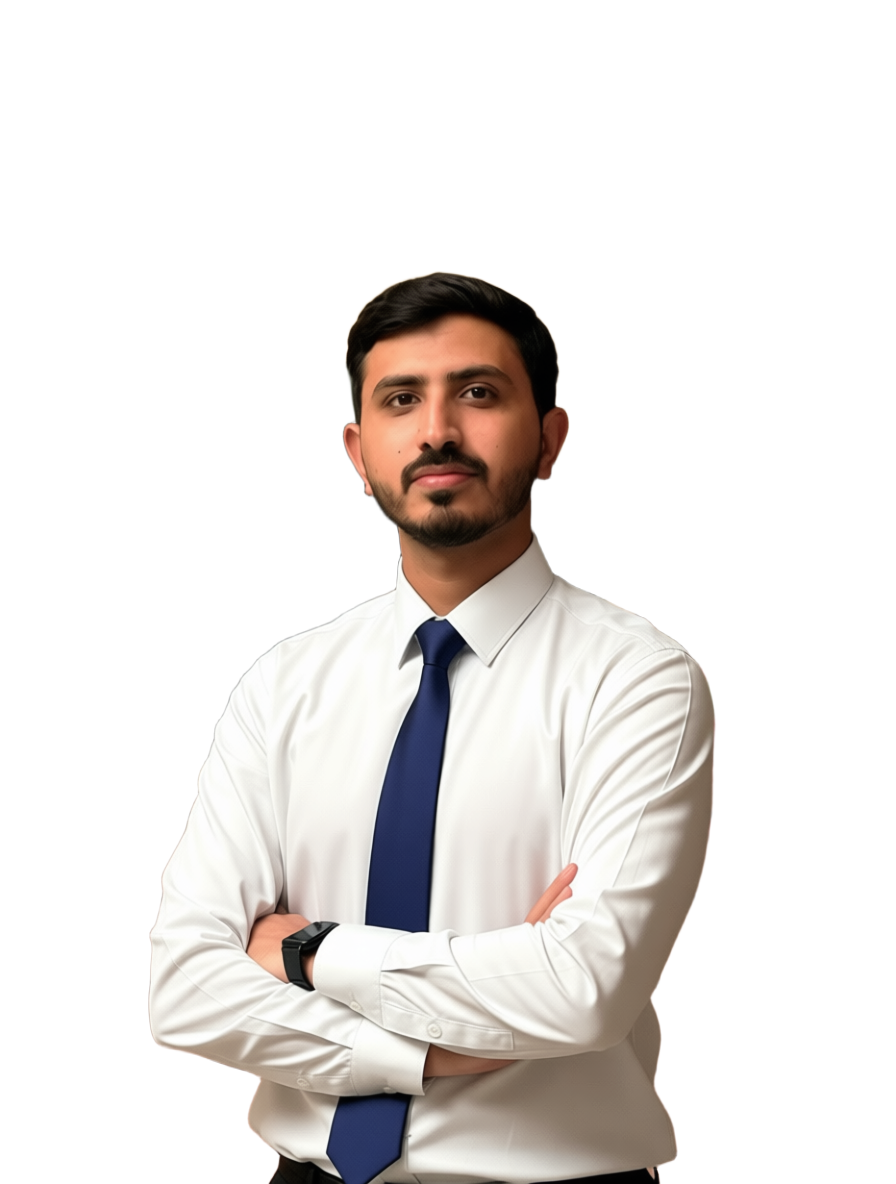
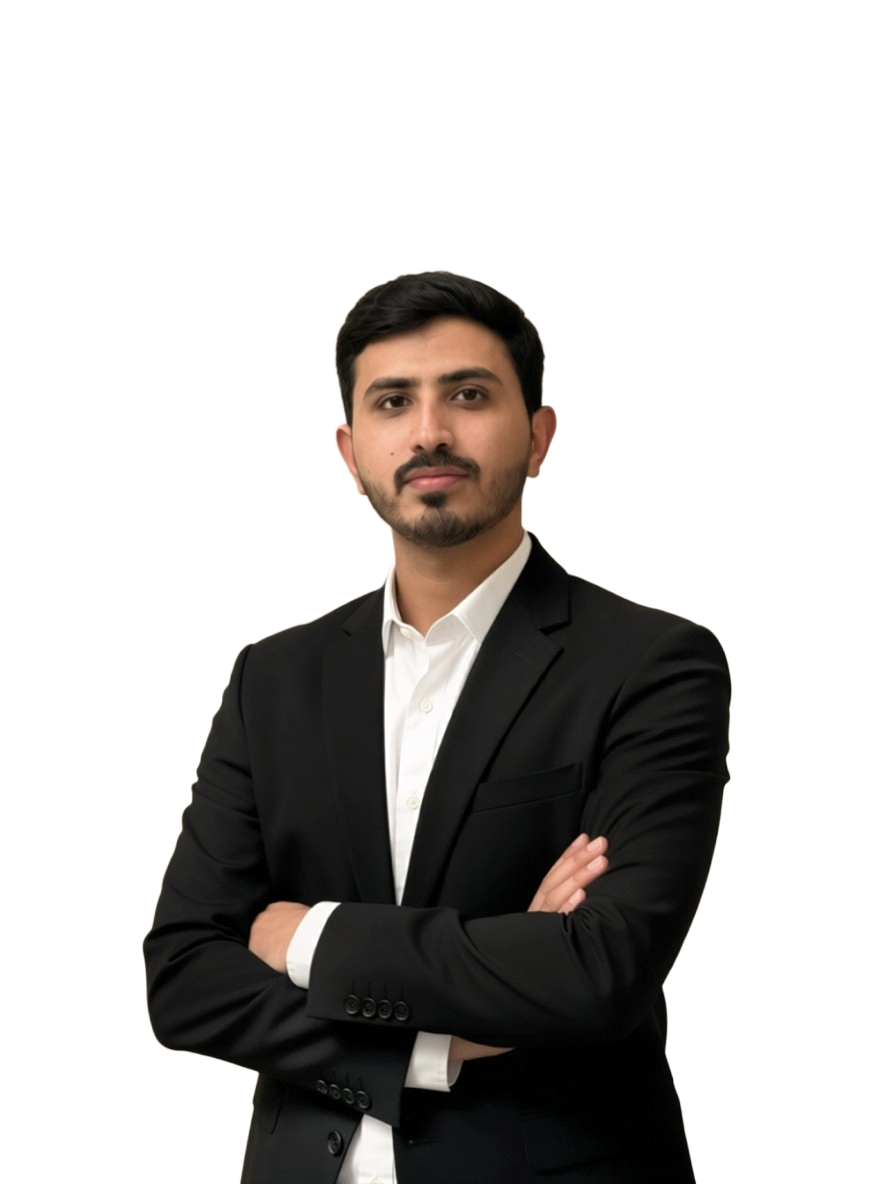
change theme and other things

Changed region(s): [[0.1562, 0.2188, 0.8438, 1.0]]

diff --git a/src/components/portfolio/Services.tsx b/src/components/portfolio/Services.tsx
@@ -7,7 +7,7 @@ type Service = {
   title: string;
   description: string;
   tags: string[];
-  tone: "gold" | "muted";
+  tone: "cyan" | "purple" | "muted";
 };
 
 const services: Service[] = [
@@ -16,7 +16,7 @@ const services: Service[] = [
     title: "Mobile App Development",
     description: "High-performance native and cross-platform apps built with Java, Kotlin, Jetpack Compose, and Flutter. Delivering seamless user experiences with clean architecture and solid backend integrations.",
     tags: ["Android", "Flutter", "Jetpack Compose", "Firebase"],
-    tone: "gold",
+    tone: "cyan",
   },
   {
     icon: Globe,
@@ -30,7 +30,7 @@ const services: Service[] = [
     title: "AI Automation",
     description: "Automate repetitive business tasks with intelligent n8n, Zapier, and Make workflows connected to your daily tools. Integrate AI to parse data and make informed decisions — saving hours every single week.",
     tags: ["n8n", "Zapier", "Make.com", "OpenAI / Claude"],
-    tone: "gold",
+    tone: "purple",
   },
 ];
 
@@ -43,15 +43,17 @@ export function Services() {
 
         <div className="mt-12 lg:mt-16 flex flex-nowrap items-stretch overflow-x-auto hide-scrollbar md:grid md:grid-cols-2 md:overflow-visible lg:grid-cols-3 gap-5 pb-8 md:pb-0 snap-x snap-mandatory px-4 md:px-0 -mx-4 md:mx-0 py-4 -my-4 md:py-0 md:my-0">
           {services.map((s, i) => (
-            <article key={s.title} className="flex flex-col self-stretch w-[75vw] sm:w-[60vw] md:w-full min-w-0 shrink-0 snap-center md:snap-align-none card-hover group rounded-2xl border border-border bg-elevated p-8 relative overflow-hidden transition-all hover:shadow-[0_4px_30px_rgba(200,168,75,0.06)] outline-none focus:outline-none items-center text-center md:items-start md:text-left">
+            <article key={s.title} className="flex flex-col self-stretch w-[75vw] sm:w-[60vw] md:w-full min-w-0 shrink-0 snap-center md:snap-align-none card-hover group rounded-2xl border border-border bg-elevated p-8 relative overflow-hidden transition-all hover:shadow-[0_4px_30px_rgba(232,87,42,0.06)] outline-none focus:outline-none items-center text-center md:items-start md:text-left">
               {/* Gold corner accent on hover */}
                 <div className="absolute top-0 right-0 h-20 w-20 opacity-0 group-hover:opacity-100 transition-opacity duration-300 pointer-events-none">
                   <div className="absolute top-4 right-4 h-8 w-8 border-t-2 border-r-2 border-primary rounded-tr-xl" />
                 </div>
 
                 <div className="flex flex-col md:flex-row items-center gap-4 mt-6">
-                  <div className={`inline-flex shrink-0 h-14 w-14 items-center justify-center rounded-xl transition-all duration-300 group-hover:scale-110 group-hover:shadow-[0_0_20px_rgba(200,168,75,0.2)] ${
-                    s.tone === "gold" ? "bg-primary/10 text-primary border border-primary/20" : "bg-surface text-muted-foreground border border-border group-hover:text-primary group-hover:border-primary/20"
+                  <div className={`inline-flex shrink-0 h-14 w-14 items-center justify-center rounded-xl transition-all duration-300 group-hover:scale-110 ${
+                    s.tone === "cyan" ? "bg-primary/10 text-primary border border-primary/20 group-hover:shadow-[0_0_20px_rgba(232,87,42,0.25)]"
+                    : s.tone === "purple" ? "bg-primary/10 text-primary border border-primary/20 group-hover:shadow-[0_0_20px_rgba(232,87,42,0.25)]"
+                    : "bg-surface text-muted-foreground border border-border group-hover:text-primary group-hover:border-primary/20"
                   }`}>
                     <s.icon className="h-6 w-6" strokeWidth={1.5} />
                   </div>
@@ -63,8 +65,10 @@ export function Services() {
                 <div className="pt-6 md:pt-8 flex flex-wrap gap-2 mt-auto justify-center md:justify-start">
                   {s.tags.map((t) => (
                     <span key={t} className={`rounded-md border px-3 py-1.5 text-[12px] font-medium tracking-wide transition-colors ${
-                      s.tone === "gold"
+                      s.tone === "cyan"
                         ? "border-primary/30 text-primary bg-primary/5 group-hover:bg-primary/10"
+                        : s.tone === "purple"
+                        ? "border-secondary/30 text-secondary bg-secondary/5 group-hover:bg-secondary/10"
                         : "border-border text-muted-foreground bg-surface group-hover:border-primary/30 group-hover:text-primary"
                     }`}>
                       {t}

diff --git a/src/styles.css b/src/styles.css
@@ -1,14 +1,12 @@
 @import url("https://fonts.googleapis.com/css2?family=Space+Grotesk:wght@400;500;600;700;800&family=Inter:wght@400;500;600;700&display=swap");
 
-@import "tailwindcss" source(none);
+@import "tailwindcss" source none);
 @source "../src";
 
 @custom-variant dark (&:is(.dark *));
 
 /*
- * Portfolio — Black & Gold flat dark theme. No gradients.
- * Page #0D0D0D  Surface #151515  Card #1E1E1E  Border #2A2A2A
- * Primary #C8A84B (gold)  Hover #B8943C
+ * Portfolio — #0E0E10 bg · #161618 surface · #202024 card · #E8572A accent · #FF7A4D highlight
  */
 
 @theme inline {
@@ -48,41 +46,41 @@
 :root {
   --radius: 0.75rem;
 
-  --background: #0D0D0D;
-  --surface: #151515;
-  --elevated: #1E1E1E;
-  --foreground: #F0F0F0;
-  --muted: #1E1E1E;
-  --muted-foreground: #8A8A8A;
-  --subtle-foreground: #5A5A5A;
+  --background: #0E0E10;
+  --surface: #161618;
+  --elevated: #202024;
+  --foreground: #F5F5F5;
+  --muted: #202024;
+  --muted-foreground: #A0A0A8;
+  --subtle-foreground: #5A5A62;
 
-  --card: #151515;
-  --card-foreground: #F0F0F0;
-  --popover: #151515;
-  --popover-foreground: #F0F0F0;
+  --card: #161618;
+  --card-foreground: #F5F5F5;
+  --popover: #161618;
+  --popover-foreground: #F5F5F5;
 
-  --primary: #C8A84B;
-  --primary-foreground: #0D0D0D;
-  --primary-hover: #B8943C;
-  --primary-dim: #29220a;
-  --secondary: #D4AF37;
-  --secondary-foreground: #0D0D0D;
-  --secondary-hover: #B8962E;
-  --accent: #C8A84B;
-  --accent-foreground: #0D0D0D;
+  --primary: #E8572A;
+  --primary-foreground: #FFFFFF;
+  --primary-hover: #FF7A4D;
+  --primary-dim: #2A1810;
+  --secondary: #FF7A4D;
+  --secondary-foreground: #FFFFFF;
+  --secondary-hover: #E8572A;
+  --accent: #E8572A;
+  --accent-foreground: #FFFFFF;
   --destructive: #EF4444;
   --destructive-foreground: #FFFFFF;
 
-  --border: #2A2A2A;
-  --input: #2A2A2A;
-  --ring: #C8A84B;
+  --border: #2C2C30;
+  --input: #2C2C30;
+  --ring: #E8572A;
 
   --transition-base: 0.2s ease;
 }
 
 .dark {
-  --background: #0D0D0D;
-  --foreground: #F0F0F0;
+  --background: #0E0E10;
+  --foreground: #F5F5F5;
 }
 
 @layer base {
@@ -103,10 +101,10 @@
     line-height: 1.15;
   }
   ::-webkit-scrollbar { width: 8px; height: 8px; }
-  ::-webkit-scrollbar-track { background: #0D0D0D; }
-  ::-webkit-scrollbar-thumb { background: #2A2A2A; border-radius: 8px; }
-  ::-webkit-scrollbar-thumb:hover { background: #C8A84B; }
-  ::selection { background: rgba(200,168,75,0.2); color: #F0F0F0; }
+  ::-webkit-scrollbar-track { background: #0E0E10; }
+  ::-webkit-scrollbar-thumb { background: #2C2C30; border-radius: 8px; }
+  ::-webkit-scrollbar-thumb:hover { background: #E8572A; }
+  ::selection { background: rgba(232,87,42,0.25); color: #F5F5F5; }
 }
 
 @layer utilities {
@@ -136,20 +134,20 @@
     border: 1px solid var(--border);
     transition: background-color var(--transition-base), border-color var(--transition-base);
   }
-  .btn-secondary:hover { background-color: #1A1A1A; border-color: #3A3A3A; }
+  .btn-secondary:hover { background-color: #202024; border-color: #3C3C42; }
   .card-hover {
     transition: border-color var(--transition-base), transform var(--transition-base);
   }
   .card-hover:hover { border-color: var(--primary); transform: translateY(-3px); }
   .dot-grid {
-    background-image: radial-gradient(rgba(200,168,75,0.1) 1px, transparent 1px);
+    background-image: radial-gradient(rgba(232,87,42,0.08) 1px, transparent 1px);
     background-size: 30px 30px;
   }
 }
 
 @keyframes pulse-dot {
-  0%,100% { transform: scale(1); opacity: 1; box-shadow: 0 0 0 0 rgba(200,168,75,0.7); }
-  50% { transform: scale(1.1); opacity: 0.9; box-shadow: 0 0 0 8px rgba(200,168,75,0); }
+  0%,100% { transform: scale(1); opacity: 1; box-shadow: 0 0 0 0 rgba(232,87,42,0.7); }
+  50% { transform: scale(1.1); opacity: 0.9; box-shadow: 0 0 0 8px rgba(232,87,42,0); }
 }
 .pulse-dot { animation: pulse-dot 1.8s ease-in-out infinite; }
 
@@ -157,7 +155,7 @@
 .caret {
   display: inline-block;
   width: 3px;
-  background: #C8A84B;
+  background: #E8572A;
   margin-left: 4px;
   animation: blink-caret 0.9s step-end infinite;
 }

diff --git a/src/components/portfolio/Hero.tsx b/src/components/portfolio/Hero.tsx
@@ -1,5 +1,5 @@
 import { useEffect, useRef, useState } from "react";
-import heroImg from "@/assets/mine.png"; 
+import heroImg from "@/assets/me.png"; 
 
 const ROLES = ["Mobile App Developer", "Website Developer", "AI Automation Engineer"];
 
@@ -58,8 +58,8 @@ function useCountUp(target: number, duration = 1400) {
 function Stat({ n, label, suffix = "+" }: { n: number; label: string; suffix?: string }) {
   const { val, ref } = useCountUp(n);
   return (
-    <div ref={ref} className="flex flex-col items-center justify-center rounded-[12px] border border-border/80 bg-[#121212] p-3 text-center shadow-lg transition-transform hover:-translate-y-1 duration-300">
-      <div className="font-display text-[22px] md:text-[24px] font-bold text-primary mb-0.5 drop-shadow-[0_0_12px_rgba(200,168,75,0.4)]">{val}{suffix}</div>
+    <div ref={ref} className="flex flex-col items-center justify-center rounded-[12px] border border-border/80 bg-[#202024] p-3 text-center shadow-lg transition-transform hover:-translate-y-1 duration-300">
+      <div className="font-display text-[22px] md:text-[24px] font-bold text-primary mb-0.5 drop-shadow-[0_0_12px_rgba(232,87,42,0.4)]">{val}{suffix}</div>
       <div className="text-[11px] md:text-[12px] font-medium text-muted-foreground">{label}</div>
     </div>
   );
@@ -84,7 +84,7 @@ export function Hero() {
             
             {/* Headline */}
             <div>
-              <p className="font-display text-[22px] lg:text-[30px] text-primary mb-3 font-semibold">Hi, I'm Fahad Hassan</p>
+              <p className="font-display text-[22px] lg:text-[30px] text-foreground mb-3 font-semibold">Hi, I'm Fahad Hassan</p>
               <h1 className="font-display font-bold text-[28px] md:text-[36px] lg:text-[46px] leading-[1.1] tracking-tight text-foreground">
                 <span className="text-primary">{role}</span>
                 <span className="caret align-middle ml-1 border-r-[3px] border-primary" style={{ height: "0.85em" }} />

diff --git a/src/components/portfolio/Footer.tsx b/src/components/portfolio/Footer.tsx
@@ -1,5 +1,5 @@
-import { GithubIcon, LinkedinIcon, TwitterIcon } from "./SocialIcons";
-import { ArrowUp } from "lucide-react";
+import { GithubIcon, LinkedinIcon } from "./SocialIcons";
+
 
 const quickLinks = ["Home", "About", "Services", "Projects", "Skills", "Contact"];
 const services = ["Mobile App Development", "Website Development", "AI Automation"];
@@ -21,8 +21,11 @@ export function Footer() {
               Mobile app, Websites & AI automation specialist building thoughtful software for ambitious teams.
             </p>
             <div className="mt-5 flex items-center justify-center sm:justify-start gap-2">
-              {[GithubIcon, LinkedinIcon, TwitterIcon].map((Icon, i) => (
-                <a key={i} href="#" className="h-9 w-9 inline-flex items-center justify-center rounded-full border border-border bg-elevated text-muted-foreground hover:text-primary hover:border-primary transition">
+              {[
+                { Icon: GithubIcon, href: "https://github.com/FahadHassn" },
+                { Icon: LinkedinIcon, href: "https://pk.linkedin.com/in/fahadhassan72" },
+              ].map(({ Icon, href }, i) => (
+                <a key={i} href={href} target="_blank" rel="noopener noreferrer" className="h-9 w-9 inline-flex items-center justify-center rounded-full border border-border bg-elevated text-muted-foreground hover:text-primary hover:border-primary transition">
                   <Icon width={16} height={16} />
                 </a>
               ))}

diff --git a/src/components/portfolio/Navbar.tsx b/src/components/portfolio/Navbar.tsx
@@ -6,6 +6,7 @@ const links = [
   { href: "#home", label: "Home" },
   { href: "#services", label: "Services" },
   { href: "#projects", label: "Projects" },
+  { href: "#testimonials", label: "Testimonials" },
   { href: "#contact", label: "Contact Us" },
 ];
 
@@ -80,8 +81,8 @@ export function Navbar() {
       </nav>
 
       {/* Mobile overlay */}
-      <div className={cn("fixed inset-0 top-0 h-[100dvh] w-full z-50 bg-[#0f0f0f] transition-opacity lg:hidden flex flex-col", open ? "opacity-100 pointer-events-auto" : "opacity-0 pointer-events-none")}>
-        <div className="flex items-center justify-between p-5 border-b border-border bg-[#0f0f0f]">
+      <div className={cn("fixed inset-0 top-0 h-[100dvh] w-full z-50 bg-[#0E0E10] transition-opacity lg:hidden flex flex-col", open ? "opacity-100 pointer-events-auto" : "opacity-0 pointer-events-none")}>
+        <div className="flex items-center justify-between p-5 border-b border-border bg-[#0E0E10]">
           <span className="font-display font-bold text-xl text-foreground">Fahad<span className="text-primary">.</span>dev</span>
           <button aria-label="Close menu" className="h-9 w-9 inline-flex items-center justify-center text-foreground rounded-md hover:bg-surface transition-colors" onClick={() => setOpen(false)}>
             <X className="h-5 w-5" />

diff --git a/src/components/portfolio/Projects.tsx b/src/components/portfolio/Projects.tsx
@@ -239,8 +239,8 @@ function useCountUp(target: number, duration = 1400) {
 function Stat({ n, label, suffix = "+" }: { n: number; label: string; suffix?: string }) {
   const { val, ref } = useCountUp(n);
   return (
-    <div ref={ref} className="col-span-1 flex flex-col items-center justify-center rounded-[12px] border border-border/80 bg-[#121212] p-4 text-center shadow-lg transition-transform hover:-translate-y-1 duration-300">
-      <div className="font-display text-[26px] md:text-[28px] font-bold text-primary mb-1 drop-shadow-[0_0_12px_rgba(200,168,75,0.4)]">{val}{suffix}</div>
+    <div ref={ref} className="col-span-1 flex flex-col items-center justify-center rounded-[12px] border border-border/80 bg-[#202024] p-4 text-center shadow-lg transition-transform hover:-translate-y-1 duration-300">
+      <div className="font-display text-[26px] md:text-[28px] font-bold text-primary mb-1 drop-shadow-[0_0_12px_rgba(232,87,42,0.4)]">{val}{suffix}</div>
       <div className="text-[12px] md:text-[13px] font-medium text-muted-foreground">{label}</div>
     </div>
   );

diff --git a/src/components/portfolio/Skills.tsx b/src/components/portfolio/Skills.tsx
@@ -118,7 +118,7 @@ export function Skills() {
         <div className="mt-20 overflow-hidden py-8 border-y border-border/40 [mask-image:linear-gradient(90deg,transparent,black_15%,black_85%,transparent)] bg-gradient-to-r from-transparent via-surface/30 to-transparent">
           <div className="flex w-max gap-12 marquee-track items-center">
             {[...marqueeItems, ...marqueeItems, ...marqueeItems].map((l, i) => (
-              <span key={i} className="font-display text-xl font-medium text-primary/80 whitespace-nowrap hover:text-primary hover:drop-shadow-[0_0_8px_rgba(200,168,75,0.6)] hover:scale-[1.05] transition-all duration-300 cursor-default">
+              <span key={i} className="font-display text-xl font-medium text-primary/80 whitespace-nowrap hover:text-primary hover:drop-shadow-[0_0_8px_rgba(232,87,42,0.6)] hover:scale-[1.05] transition-all duration-300 cursor-default">
                 {l}
               </span>
             ))}

diff --git a/src/components/portfolio/Contact.tsx b/src/components/portfolio/Contact.tsx
@@ -1,10 +1,9 @@
 import { Reveal, SectionHeader } from "./Reveal";
 import { Mail, Phone, MapPin, Clock, MessageCircle } from "lucide-react";
-import { LinkedinIcon, TwitterIcon } from "./SocialIcons";
 
 const infoItems = [
-  { icon: Mail,     label: "Email",         value: "fahadhassan467@gmail.com",    href: "mailto:fahadhassan467@gmail.com" },
-  { icon: Phone,    label: "WhatsApp",       value: "+92 331 1470266",      href: "https://wa.me/923311470266" },
+  { icon: Mail,     label: "Email",         value: "fahadhassan467@gmail.com",    href: "#" },
+  { icon: Phone,    label: "WhatsApp",       value: "+92 331 1470266",      href: "#" },
   { icon: MapPin,   label: "Location",       value: "Gujranwala, Pakistan", href: "#" },
   { icon: Clock,    label: "Response Time",  value: "Within 24 hours",      href: "#" },
 ];

diff --git a/src/components/portfolio/About.tsx b/src/components/portfolio/About.tsx
@@ -59,7 +59,7 @@ export function About() {
           <div className="space-y-8">
             {/* Avatar card */}
             <div className="relative mx-auto lg:mx-0 h-72 w-72">
-              <div className="h-full w-full rounded-3xl border-2 border-border bg-elevated flex items-center justify-center overflow-hidden" style={{ boxShadow: "inset 0 0 40px rgba(200,168,75,0.06)" }}>
+              <div className="h-full w-full rounded-3xl border-2 border-border bg-elevated flex items-center justify-center overflow-hidden" style={{ boxShadow: "inset 0 0 40px rgba(232,87,42,0.06)" }}>
                 <div className="text-center">
                   <div className="font-display text-7xl font-bold text-primary">SF</div>
                   <div className="mt-2 label-caps text-muted-foreground">Fahad Hassan</div>

diff --git a/src/components/portfolio/Process.tsx b/src/components/portfolio/Process.tsx
@@ -18,7 +18,7 @@ export function Process() {
           {/* Desktop connecting line */}
           <div
             className="hidden lg:block absolute top-8 left-[12%] right-[12%] h-px"
-            style={{ backgroundImage: "repeating-linear-gradient(90deg, #C8A84B 0 6px, transparent 6px 14px)", opacity: 0.4 }}
+            style={{ backgroundImage: "repeating-linear-gradient(90deg, #E8572A 0 6px, transparent 6px 14px)", opacity: 0.4 }}
           />
 
           <div className="grid grid-cols-1 lg:grid-cols-4 gap-10 lg:gap-6 relative">
